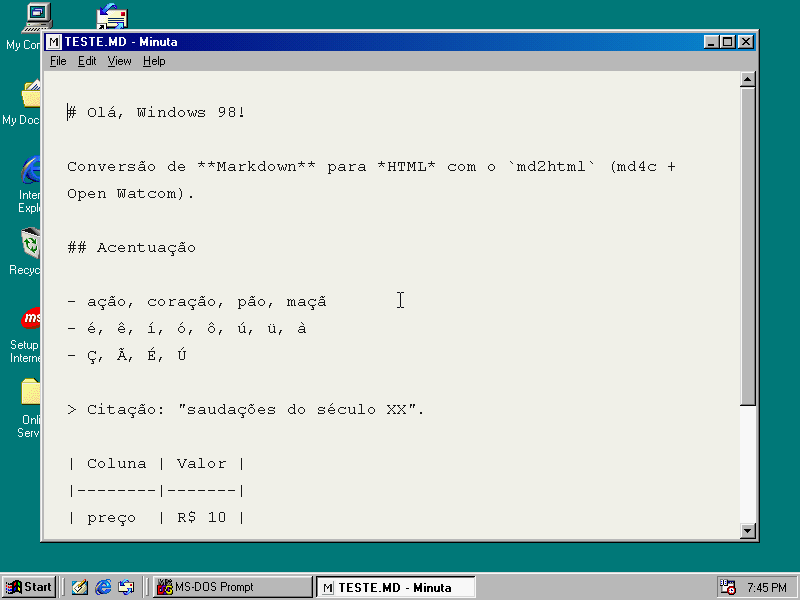
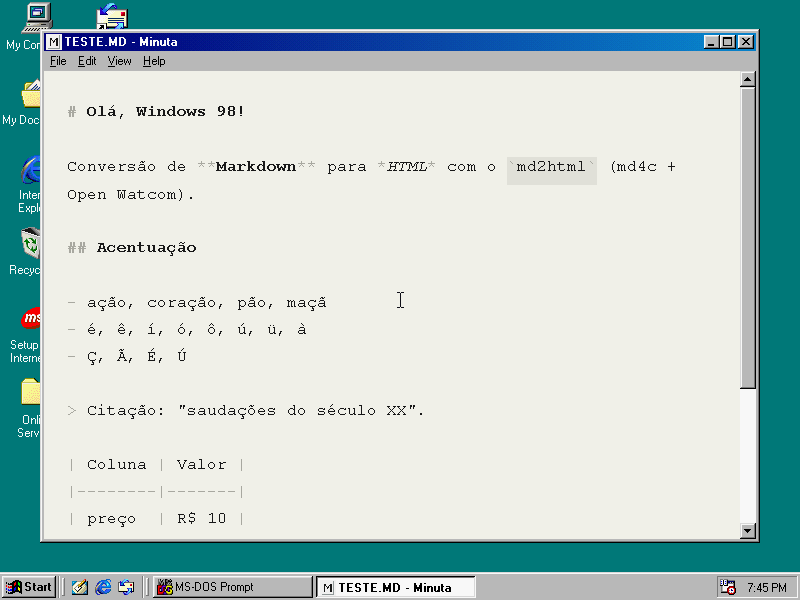
docs: add README, final status and v0.1.0 polish
Milestone 6 of SPEC.md.

- README with build, test, usage, settings, md2html and the RichEdit 2.0
  findings, illustrated with the VM screenshots
- STATUS: acceptance summary for v0.1.0 and the milestone 6 notes
- editor: clear undo after a change it didn't track (drag and drop);
  size the editor before the first load; skip restyling on same-size
  WM_SIZE
- tests/vm: start-time probe ignores cursor-sized changes; all suites
  rerun on the final build and screenshots refreshed

diff --git a/tests/vm/screen.py b/tests/vm/screen.py
@@ -3,9 +3,11 @@
 
 usage: screen.py wait-light VM X Y TIMEOUT   seconds until pixel (X,Y) is light
        screen.py pixel VM X Y                prints the pixel as RRGGBB
-       screen.py last-change VM TIMEOUT QUIET
+       screen.py last-change VM TIMEOUT QUIET [PIXELS]
            seconds from now to the last screen change before the screen
-           stayed unchanged for QUIET seconds (ignores <= 64 pixels, the caret)
+           stayed unchanged for QUIET seconds; changes of at most PIXELS
+           pixels are ignored (default 64: the blinking caret; the mouse
+           cursor changing shape is a few hundred)
 """
 import os
 import subprocess
@@ -45,7 +47,7 @@ def pixel(vm, x, y):
     return tuple(pixels[offset:offset + 3])
 
 
-def changed(a, b):
+def changed(a, b, pixels=64):
     if a is None or len(a) != len(b):
         return True
     if a == b:
@@ -54,19 +56,19 @@ def changed(a, b):
     for i in range(0, len(a), 3):
         if a[i:i + 3] != b[i:i + 3]:
             count += 1
-            if count > 64:
+            if count > pixels:
                 return True
     return False
 
 
-def last_change(vm, timeout, quiet):
+def last_change(vm, timeout, quiet, pixels=64):
     start = time.time()
     previous = None
     last = 0.0
     while True:
         now = time.time()
         _, current = grab(vm)
-        if changed(previous, current):
+        if changed(previous, current, pixels):
             last = now - start
         previous = current
         if now - start - last >= quiet:
@@ -79,7 +81,8 @@ def last_change(vm, timeout, quiet):
 def main():
     command, vm = sys.argv[1], sys.argv[2]
     if command == "last-change":
-        result = last_change(vm, float(sys.argv[3]), float(sys.argv[4]))
+        pixels = int(sys.argv[5]) if len(sys.argv) > 5 else 64
+        result = last_change(vm, float(sys.argv[3]), float(sys.argv[4]), pixels)
         print("timeout" if result is None else "%.2f" % result)
         sys.exit(0 if result is not None else 1)
     x, y = int(sys.argv[3]), int(sys.argv[4])

diff --git a/src/win/main.c b/src/win/main.c
@@ -233,6 +233,25 @@ static void on_command(int id)
     }
 }
 
+static void resize_children(int width, int height)
+{
+    static int last_width = -1;
+    static int last_height = -1;
+
+    if (width == last_width && height == last_height) {
+        return;
+    }
+    last_width = width;
+    last_height = height;
+    MoveWindow(app.editor, 0, 0, width, height, TRUE);
+    editor_layout();
+    if (app.preview != NULL) {
+        MoveWindow(app.preview, 0, 0, width, height, TRUE);
+        editor_layout_control(app.preview);
+    }
+    style_settings_changed();
+}
+
 static void remember_placement(void)
 {
     WINDOWPLACEMENT placement;
@@ -253,13 +272,7 @@ static LRESULT CALLBACK window_procedure(HWND window, UINT message, WPARAM wpara
     switch (message) {
     case WM_SIZE:
         if (app.editor != NULL) {
-            MoveWindow(app.editor, 0, 0, LOWORD(lparam), HIWORD(lparam), TRUE);
-            editor_layout();
-            if (app.preview != NULL) {
-                MoveWindow(app.preview, 0, 0, LOWORD(lparam), HIWORD(lparam), TRUE);
-                editor_layout_control(app.preview);
-            }
-            style_settings_changed();
+            resize_children(LOWORD(lparam), HIWORD(lparam));
         }
         return 0;
     case WM_NOTIFY:
@@ -388,6 +401,14 @@ int WINAPI WinMain(HINSTANCE instance, HINSTANCE previous, LPSTR command_line, i
     }
     app.preview = preview_create(app.window);
     app.accelerators = LoadAccelerators(instance, MAKEINTRESOURCE(IDR_ACCELERATORS));
+    /* The first WM_SIZE came before the editor existed: size it now, so
+     * the document is styled for the real view before the window shows. */
+    {
+        RECT client;
+
+        GetClientRect(app.window, &client);
+        resize_children(client.right, client.bottom);
+    }
     apply_view_settings();
 
     /* Load before showing, so the window paints once, with the text. */

diff --git a/src/win/editor.c b/src/win/editor.c
@@ -65,8 +65,10 @@ void editor_notify_change(void)
     } else if (changes_expected_later > 0) {
         changes_expected_later--;
     } else if (!style_busy) {
-        /* A change we didn't see coming (drag and drop): start over. */
+        /* A change we didn't see coming (drag and drop): start over, and
+         * forget undo steps whose positions may no longer hold. */
         app_document_changed();
+        undo_clear();
         style_reset();
     }
 }
@@ -206,14 +208,19 @@ void editor_replace_selection(const char *text)
 void editor_replace(long start, long end, const char *text, long size)
 {
     CHARRANGE range;
+    int outer_changes = changes_during_tracking;
 
     range.cpMin = start;
     range.cpMax = end;
+    changes_during_tracking = 0;
     tracking++;
     SendMessage(app.editor, EM_EXSETSEL, 0, (LPARAM)&range);
     CallWindowProc(richedit_procedure, app.editor, EM_REPLACESEL, FALSE, (LPARAM)text);
     tracking--;
-    changes_expected_later++;
+    if (changes_during_tracking == 0) {
+        changes_expected_later++;
+    }
+    changes_during_tracking = outer_changes;
     range.cpMin = start + size;
     range.cpMax = start + size;
     SendMessage(app.editor, EM_EXSETSEL, 0, (LPARAM)&range);

diff --git a/README.md b/README.md
@@ -1,13 +1,136 @@
 # Minuta
 
-Minimal Markdown editor for Windows 98 SE, plus `md2html` for Win32 and DOS.
-See `SPEC.md` for the design and `docs/STATUS.md` for progress.
+A minimal Markdown editor for Windows 98 SE, in the spirit of iA Writer: one
+centered column of monospace text, Markdown syntax kept visible but dimmed,
+focus mode, typewriter scrolling and a night theme. It comes with `md2html`,
+a Markdown to HTML converter for the Win32 console and for DOS.
 
-## Build
+![Minuta on Windows 98](docs/shots/m4-typing.png)
 
-Requires Open Watcom 2.0 (defaults to `~/vms/retro/toolchain/ow2`; override
-with `WATCOM=...`) and clang for the native tests.
+| | |
+|---|---|
+| ![Preview](docs/shots/m5-preview.png) | ![Focus mode](docs/shots/m4-focus.png) |
+| ![Night theme](docs/shots/m4-night.png) | ![Exported page in IE 5](docs/shots/m5-export-ie5.png) |
 
-    make win    # build/bin/MINUTA.EXE, build/bin/MD2HTMLW.EXE
+- `MINUTA.EXE`: Win32 GUI for Windows 98 SE (also 98 FE and ME), about
+  200 KB, no runtime DLLs. It imports KERNEL32, USER32, GDI32 and COMDLG32
+  and loads RICHED20.DLL (RichEdit 2.0) and, for "open in browser",
+  SHELL32 at run time.
+- `MD2HTMLW.EXE` (Win32 console) and `MD2HTMLD.EXE` (DOS, DOS/32A extender
+  built in): [md4c](https://github.com/mity/md4c)'s `md2html` with code page
+  options.
+
+Status and test evidence for each milestone: [docs/STATUS.md](docs/STATUS.md).
+Design: [SPEC.md](SPEC.md).
+
+## Using Minuta
+
+Open a file by passing it on the command line, with File > Open, or let
+Minuta reopen the last file. Everything is on the keyboard:
+
+| Keys | Action |
+|---|---|
+| Ctrl+N, Ctrl+O, Ctrl+S, Ctrl+Shift+S | New, Open, Save, Save As |
+| Ctrl+E | Export HTML (and optionally open it in the browser) |
+| Ctrl+R | Preview the rendered document; Esc or Ctrl+R returns to the same place |
+| Ctrl+Shift+F | Focus mode: everything but the current sentence is faded |
+| Ctrl+Shift+P | Focus on the current paragraph instead of the sentence |
+| Ctrl+Shift+T | Typewriter scrolling: the caret line stays in the middle |
+| Ctrl+Shift+N | Night theme |
+| Ctrl+Shift+W | Word count, characters and reading time |
+| Ctrl+F, F3, Ctrl+H | Find, find next, replace |
+| Ctrl+Z, Ctrl+Y | Undo (word by word), redo |
+| Ctrl+=, Ctrl+- | Larger or smaller text |
+| Ctrl+], Ctrl+[ | Wider or narrower column (50 to 80 characters) |
+
+### Files and encodings
+
+- A file with a UTF-8 BOM, or that is valid UTF-8, is read as UTF-8;
+  anything else as Windows-1252. New files are UTF-8 with CRLF line endings.
+- Saving keeps the file's encoding, BOM and line endings. Save As can switch
+  between UTF-8 and Windows-1252 with the "Save as type" list.
+- The editor works in Windows-1252, so characters outside it (Greek, CJK,
+  emoji...) show as `?`. Lines you don't edit are written back byte for
+  byte, so those characters survive a save; a line you edit keeps what you
+  see.
+- While a document has unsaved changes, a copy is written to `name.md~`
+  every 30 seconds. Saving or closing removes it.
+
+### Settings
+
+`MINUTA.INI`, beside `MINUTA.EXE`, section `[Minuta]`:
+
+| Key | Default | |
+|---|---|---|
+| `Font`, `FontSize` | `Courier New`, `12` | View > Font; 8 to 28 points |
+| `ColumnWidth` | `64` | characters, 50 to 80 |
+| `Night`, `Focus`, `FocusParagraph`, `Typewriter` | `0` | modes |
+| `LastFile`, `WindowLeft`... `Maximized` | | restored on start |
+| `Trace` | `0` | `1` writes `TRACE.TXT` beside the exe (diagnostics) |
+
+### md2html
+
+    MD2HTMLD [--codepage utf8|1252|850] [--out-codepage utf8|1252|850]
+             [--full-html] [--gfm] [-o out.html] in.md
+
+The input code page defaults to 850 in the DOS build and 1252 in the Win32
+build; a UTF-8 BOM always means UTF-8. Output is UTF-8 unless
+`--out-codepage` says otherwise; characters the output code page can't hold
+become `&#NNNN;` references. `--full-html` declares the charset with
+`<meta http-equiv="Content-Type">`, which IE 4 and 5 understand. All other
+options are md4c's (`--help`).
+
+## Building
+
+Requirements: [Open Watcom 2.0](https://github.com/open-watcom/open-watcom-v2)
+(the Makefile expects it in `~/vms/retro/toolchain/ow2`; pass `WATCOM=...`
+to use another place), GNU make and clang for the native tests.
+
+    make win    # build/bin/MINUTA.EXE and build/bin/MD2HTMLW.EXE
     make dos    # build/bin/MD2HTMLD.EXE
-    make test   # native unit tests and md2html regression tests
+    make test   # core unit tests and md2html regression tests, natively
+
+`src/` builds at Watcom warning level 4 with warnings as errors, and
+natively with `-Wall -Wextra -Wpedantic -Werror`.
+
+## Layout
+
+- `src/core/`: portable C, unit-tested on the Mac: encodings, the document
+  codec (encoding detection, line endings, byte preservation), the per-line
+  Markdown span scanner behind the dimming, the md4c to RTF renderer of the
+  preview, HTML export, word counts.
+- `src/win/`: the Win32 program: window and menus (`main.c`), the RichEdit
+  editor and edit tracking (`editor.c`), styling, focus and typewriter
+  (`style.c`, through the Text Object Model in `tom.c`), undo (`undo.c`),
+  preview, export, word count and find (`preview.c`, `commands.c`), files and
+  settings.
+- `src/cli/`: `md2html`.
+- `vendor/md4c/`: md4c 0.6.0 with a small patch for Open Watcom.
+- `tests/unit/`: core unit tests. `tests/cli/`: md2html tests.
+  `tests/vm/`: acceptance scripts that drive the Windows 98, FreeDOS and
+  MS-DOS 6.22 virtual machines of `~/vms/retro` and take the screenshots in
+  `docs/shots/`. `tests/win/`: RichEdit probes used to find out how
+  Windows 98's RICHED20.DLL behaves.
+
+## Notes on RichEdit 2.0 (Windows 98)
+
+Found with the probes in `tests/win/` and the traces:
+
+- Formatting changes enter RichEdit's undo stack, so styling would make
+  Ctrl+Z undo colors. Minuta turns RichEdit's undo off and keeps its own.
+- Formatting through `EM_EXSETSEL` + `EM_SETCHARFORMAT` moves the selection
+  and scrolls; restoring the view with `EM_LINESCROLL` jumped to the top of a
+  1 MB document. Styling goes through TOM ranges instead, which leave the
+  selection and the view alone. `ITextDocument::Freeze` is not implemented
+  in 2.0; `WM_SETREDRAW` is used.
+- Giving a paragraph format to a whole 1 MB document makes RichEdit lay out
+  every line at once (seconds). Line spacing is therefore set paragraph by
+  paragraph, as paragraphs get styled.
+- `EM_POSFROMCHAR` returns 0,0 and `EM_GETSCROLLPOS` doesn't exist.
+- The Windows 98 caption font has no glyph for `•` and `—`, so the title bar
+  says `name - Minuta` and `* name - Minuta` when modified.
+
+## License
+
+md4c is MIT-licensed (`vendor/md4c/LICENSE.md`). No license has been chosen
+for Minuta itself yet.

diff --git a/docs/STATUS.md b/docs/STATUS.md
@@ -3,6 +3,25 @@
 Progress of the milestones in `SPEC.md`. Evidence lives in `docs/shots/`
 (VM screenshots) and in the test commands listed per milestone.
 
+## Summary (v0.1.0, 2026-09-28)
+
+All six milestones are done and every acceptance item passes on the final
+build (`tests/vm/*.sh` rerun on it; logs in `build/vm-*.log`, not committed):
+
+| # | Acceptance item | Result |
+|---|---|---|
+| 1 | Starts in < 2 s, opens CP1252 and UTF-8 samples with correct accents | 0.85 s from Start > Run to the painted, styled document; `m3-open-*.png` |
+| 2 | 2,000 words typed via `bin/type` without dropped keys; dimmed markers, bold heading, italic | 2,082 words, saved file byte-identical; `m4-typing.png` |
+| 3 | Focus, typewriter, night theme screenshots | `m4-focus.png`, `m4-focus-paragraph.png`, `m4-typewriter.png`, `m4-night.png` |
+| 4 | Preview of the smoke sample | `m5-preview*.png` |
+| 5 | UTF-8 and CP1252 save round trips, compared byte for byte | 6 comparisons pass, plus autosave |
+| 6 | Exported HTML in IE 5 with correct accents | `m5-export-ie5.png`, `m5-export-unicode-ie5.png` |
+| 7 | 1 MB file opens in < 5 s, scrolling doesn't stall | 2.6 s; slowest scroll step 0.3 s |
+| 8 | md2html on win98, FreeDOS, MS-DOS 6.22 | 7 byte comparisons pass; `md2html-*.png` |
+| 9 | `make test` green, no warnings at `-w4` in `src/` | 43 unit tests + 9 md2html tests; clean build without diagnostics |
+
+Not verified: Windows 98 FE and ME (no VMs for them).
+
 ## Milestone 1 — repo, vendored md4c, build, md2html codepages: done
 
 - `vendor/md4c/` is md4c 0.6.0 (`c7ba975`) with `md4c-watcom.patch` applied;
@@ -171,3 +190,28 @@ Decisions:
 - The export's encoding follows the document (UTF-8 or windows-1252); there
   is no separate choice.
 - Replace is implemented (the spec made it optional).
+
+## Milestone 6 — polish, README, screenshots, v0.1.0: done
+
+- README (build, test, usage, settings, md2html, RichEdit findings) with
+  screenshots from `docs/shots/`.
+- Fixes found in review: an unexpected change (drag and drop inside the
+  editor) now clears the undo history, whose positions may no longer hold;
+  the editor is sized before the first file loads, so the first styling pass
+  covers the real view; resizing to the same size no longer restyles.
+- The start-time probe ignores changes under 2,000 pixels: a frame-by-frame
+  capture showed the styled document fully painted at ~1.0 s and a later
+  555-pixel change (mouse cursor, caret) that the old 64-pixel threshold
+  counted as "still changing" (it reported 1.3–1.8 s).
+- Full clean Watcom build: no warnings or errors in `src/`; `MINUTA.EXE`
+  199 KB, `MD2HTMLW.EXE` 163 KB, `MD2HTMLD.EXE` 217 KB.
+- All VM suites (`md2html`, `files`, `preview`, `editor`) rerun on the
+  final build: everything passes (numbers in the summary above).
+- Tagged `v0.1.0`.
+
+Open issues:
+- Windows 98 FE and ME are untested.
+- Pasting a very large text restyles all of it at once (styling is limited
+  to the visible range only on load and scroll).
+- Inside the process, start-up is ~260 ms of guest time, about a third of it
+  loading RICHED20.DLL.
